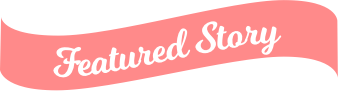
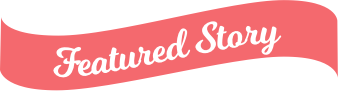
color changes

diff --git a/src/app/stories/story-card/story-card.component.css b/src/app/stories/story-card/story-card.component.css
@@ -50,7 +50,7 @@ div.content {
     position: absolute;
     width: 100%;
     /*height: 10px;*/
-    padding: 10px;
+    padding: 10px 10px 0 10px;
     bottom: 0;
     left: 0;
     background: #ffffff;
@@ -66,6 +66,7 @@ div.content {
     margin: 0 auto;
     height: 30px;
     cursor: pointer;
+    display: inline-block;
 }
 
 .read-more:hover {
@@ -122,22 +123,39 @@ h4 {
 }
 
 .card:hover .featured {
-    height: 85px;
+    height: 55px;
 }
 
-.card:hover .unfeatured {
+/*.card:hover .unfeatured {
     height: 45px;
-}
+}*/
 
 a {
     display: inline-block;
 }
 
-.social-media-icon {
+/*.social-media-icon {
     height: 30px;
     width: 30px;
     margin: 0px 5px;
     
+}*/
+.social-media {
+    float: right;
+}
+
+.social-media-icon {
+    height: 30px;
+    width: 30px;
+    margin: 0 5px;
+    border-radius: 30px;
+    transition: all .16s ease-in-out;
+    display: inline-block;
+    
+}
+
+.social-media-icon:hover {
+    transform: scale(1.3);
 }
 
 .unfeatured{
@@ -147,9 +165,9 @@ a {
     /*background: linear-gradient(141deg, #0fb8ad 0%, #1fc8db 51%, #2cb5e8 75%);*/
     /* Rectangle: */
     /* Rectangle: */
-    background-image: -webkit-linear-gradient(left, #8EC6BA 0%, #96B6BF 100%);
-    background-image: -o-linear-gradient(left, #8EC6BA 0%, #96B6BF 100%);
-    background-image: linear-gradient(to right, #8EC6BA 0%, #96B6BF 100%);
+    background-image: -webkit-linear-gradient(left, #7ED2C0 0%, #7ECDD2 100%);
+    background-image: -o-linear-gradient(left, #7ED2C0 0%, #7ECDD2 100%);
+    background-image: linear-gradient(to right, #7ED2C0 0%, #7ECDD2 100%);
     /* border-radius: 50%; */
     color: white;
     overflow: hidden;
@@ -196,7 +214,7 @@ a {
 }
 
 #burst-8-2 {
-    background: #8ec6ba;
+    background: #7ED2C0;
     height: 28px;
     width: 28px;
     position: relative;
@@ -207,7 +225,7 @@ a {
     -webkit-transform: rotate(20deg);
        -moz-transform: rotate(20deg);
         -ms-transform: rotate(20deg);
-         -o-transform: rotate(20eg);
+         -o-transform: rotate(20deg);
 }
 #burst-8-2:before {
     content: "";
@@ -216,7 +234,7 @@ a {
     left: 0;
     height: 28px;
     width: 28px;
-    background: #8ec6ba;
+    background: #7ED2C0;
     transform: rotate(135deg);
     -webkit-transform: rotate(135deg);
        -moz-transform: rotate(135deg);

diff --git a/src/app/stories/story-card/story-card.component.html b/src/app/stories/story-card/story-card.component.html
@@ -3,13 +3,9 @@
   <div class="image" *ngIf="story?.image_url" [ngStyle]="{'background-image': 'url(' + story?.image_url + ')'}">
     <div class="bursts">
       <div *ngIf="story?.featured && !(noShowStar)"  class="featured">
-        Featured Story<br/>
-        <a (click)="facebook($event)"><img class="social-media-icon" src="assets/images/fb-white.svg"></a>
-        <a (click)="stopProp($event)"><img class="social-media-icon" src="assets/images/twitter-white.svg"></a>
+        Featured Story
       </div>
       <div *ngIf="!story?.featured || (noShowStar)"  class="unfeatured">
-        <a (click)="facebook($event)"><img class="social-media-icon" src="assets/images/fb-white.svg"></a>
-        <a (click)="stopProp($event)"><img class="social-media-icon" src="assets/images/twitter-white.svg"></a>
       </div>
     </div>
   </div>
@@ -18,6 +14,10 @@
     <p>{{story?.description}}</p>
     <div class="overlay">
       <div class="read-more">Read More</div>
+      <span class="social-media">
+        <a (click)="facebook($event)"><img class="social-media-icon" src="assets/images/fb.svg"></a>
+        <a (click)="stopProp($event)"><img class="social-media-icon" src="assets/images/twitter.svg"></a>
+      </span>
     </div>
   </div>
   <!--<div *ngIf="story?.featuredCollections?.length > 0">

diff --git a/src/app/stories/featured-story-card/featured-story-card.component.css b/src/app/stories/featured-story-card/featured-story-card.component.css
@@ -38,9 +38,9 @@ div.image {
     top: 0;
     width: 7px;
     height: 100%;
-    background-image: -webkit-linear-gradient(top, #8EC6BA 0%, #96B6BF 100%);
-    background-image: -o-linear-gradient(top, #8EC6BA 0%, #96B6BF 100%);
-    background-image: linear-gradient(to bottom, #8EC6BA 0%, #96B6BF 100%);
+    background-image: -webkit-linear-gradient(top, #7ED2C0 0%, #7ECDD2 100%);
+    background-image: -o-linear-gradient(top, #7ED2C0 0%, #7ECDD2 100%);
+    background-image: linear-gradient(to bottom, #7ED2C0 0%, #7ECDD2 100%);
 }
 
 .bar.feature {
@@ -207,7 +207,7 @@ div.elipses {
     left: 20px;
     height: 30px;
     width: 30px;
-    background:#8ec6ba;
+    background:#7ED2C0;
     border-radius: 50%;
     color: white;
     overflow: hidden;
@@ -244,7 +244,7 @@ div.elipses {
 }
 
 #burst-8-2 {
-    background: #8ec6ba;
+    background: #7ED2C0;
     width: 28px;
     height: 28px;
     position: relative;
@@ -264,7 +264,7 @@ div.elipses {
     left: 0;
     height: 28px;
     width: 28px;
-    background: #8ec6ba;
+    background: #7ED2C0;
     transform: rotate(135deg);
     -webkit-transform: rotate(135deg);
        -moz-transform: rotate(135deg);

diff --git a/src/app/main/header/header.component.html b/src/app/main/header/header.component.html
@@ -10,7 +10,7 @@
 
 <nav>
   <div id="logo">
-    <a class="home" routerLink="/" routerLinkActive="active" style="color: #f79898" (click)="closeMenu()">
+    <a class="home" routerLink="/" routerLinkActive="active" style="color: #ff8b92" (click)="closeMenu()">
       <!--<img src="./assets/images/brand.png">-->
       <span style="font-family: 'Milkshake'; font-size: 38px;">Ramblin</span>
     </a>

diff --git a/src/styles.css b/src/styles.css
@@ -90,7 +90,7 @@ a:hover {
 .load-more {
     height: 40px;
     width: 160px;
-    background: #8ec6ba;
+    background: #74c7b6;
     text-align: center;
     margin: 33px auto;
     font-size: 20px;
@@ -102,7 +102,7 @@ a:hover {
 
 .load-more:hover {
     cursor: pointer;
-    background: #7aaba0;
+    background: #63a99b;
 }
 
 .spinner {
